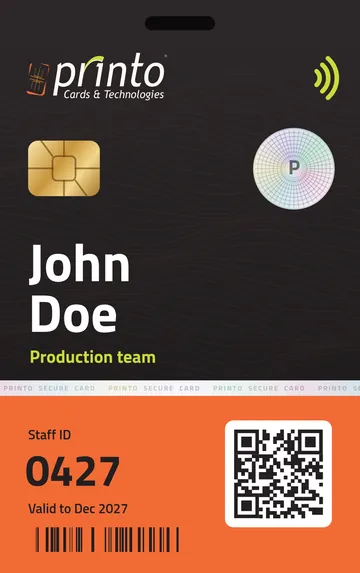
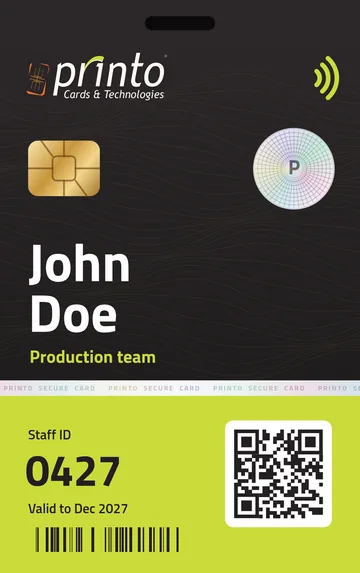
v2: client change list, round 2
From the client's feedback:
- Hero: the original colour logo, printed onto a white CR80 card left of
  the badge. It deals in, a print head lays the logo down with wet CMY ink
  behind it, then a holographic sheen passes every few seconds. It tilts
  with the pointer once the 3D scene runs, pauses off screen, and sits
  still with reduced motion
- Badge: the orange footer (front and back) is now brand lime, so the card
  stands out on the orange hero; badge stills and og.jpg re-rendered
- Nav logo is larger (46-52px, 34px in the pill, 38px on phones)

Also:
- Wooden floater removed, so the hero isn't crowded with four cards
- Phones: badge at the right, the brand card behind its left edge
- 761-1023px: the intro row stacks there, so the badge no longer overlaps
  the headline

Lighthouse: mobile 99/100/100/100, desktop 100/100/100/100. axe: 0.

Changed region(s): [[0.0, 0.6824, 1.0, 1.0]]

diff --git a/v2/src/styles/global.css b/v2/src/styles/global.css
@@ -88,9 +88,9 @@ address { font-style: normal; }
   box-shadow: 0 6px 24px -12px rgba(35,31,32,.3);
   border-radius: 999px;
 }
-.nav-main { display: flex; align-items: center; gap: 48px; padding: 13px 32px 13px 30px; }
+.nav-main { display: flex; align-items: center; gap: 48px; padding: 11px 32px 11px 28px; }
 .nav-logo { display: block; flex: none; }
-.nav-logo img { height: 34px; width: auto; }
+.nav-logo img { height: clamp(44px, 3.2vw, 52px); width: auto; }
 .nav-links { display: flex; gap: 30px; }
 .nav-links a, .menu a { text-decoration: none; }
 .nav-links a { position: relative; }
@@ -107,7 +107,7 @@ address { font-style: normal; }
   animation: pill-in .45s var(--ease) both;
 }
 .nav.is-pill .nav-main { padding: 0; background: none; box-shadow: none; backdrop-filter: none; -webkit-backdrop-filter: none; }
-.nav.is-pill .nav-logo img { height: 26px; }
+.nav.is-pill .nav-logo img { height: 34px; }
 .nav.is-pill .nav-links { display: none; }
 .nav.is-pill .nav-menu { display: inline-flex; }
 .nav.is-pill .burger { display: none; }
@@ -175,6 +175,38 @@ address { font-style: normal; }
 .hs-card { position: absolute; height: var(--ch); width: auto; aspect-ratio: 640 / 1019; left: calc(var(--cx) - var(--ch) * 0.314); top: calc(var(--cy) - var(--ch) / 2); border-radius: calc(var(--ch) * .037); box-shadow: 0 40px 60px -28px rgba(35,31,32,.55); }
 .hs-straps { position: absolute; top: 0; width: calc(var(--ch) * .512); left: calc(var(--cx) - var(--ch) * .256); height: calc(var(--cy) - var(--ch) * .54); }
 .hs-clip { position: absolute; width: calc(var(--ch) * .07); height: calc(var(--ch) * .08); left: calc(var(--cx) - var(--ch) * .035); top: calc(var(--cy) - var(--ch) * .575); background: #77777a; border-radius: 3px; }
+
+/* brand card: the logo printed onto a white CR80 card, level with the badge, in the space left of it.
+   It deals in, a print head lays the logo down, then a holographic sheen passes every few seconds.
+   --px and --py follow the pointer once the 3D scene runs, so the card tilts with the badge's light. */
+/* below ~1000px the intro and buttons stack, so the text block is ~70px taller (1023 leaves room for a scrollbar) */
+@media (max-width: 1023px) { .hero { --block: calc(.9 * var(--fs) + 52px + 203px + clamp(78px, 11vh, 116px)); } }
+.hero { --bw: min(calc(var(--ch) * .95), calc(var(--cx) - var(--ch) * .314 - var(--pad) - 6vw)); }
+.hero-brand { position: absolute; z-index: 1; left: var(--pad); top: var(--cy); width: var(--bw); aspect-ratio: 86 / 54; translate: 0 -50%; perspective: 1400px; pointer-events: none; }
+.hb-float, .hb-card { width: 100%; height: 100%; }
+.hb-card {
+  position: relative; overflow: hidden; border-radius: 3.7% / 5.9%;
+  background: linear-gradient(135deg, #fff 0%, #fafaf7 55%, #ecece7 100%);
+  box-shadow: -3px 3px 0 #d8d7d1, 0 40px 60px -28px rgba(35,31,32,.55);
+  transform: rotateY(calc(14deg + var(--px, 0) * 10deg)) rotateX(calc(6deg - var(--py, 0) * 8deg)) rotate(-4deg);
+}
+.hb-print { position: absolute; inset: 0; display: grid; place-items: center; }
+.hb-print img { width: 76%; height: auto; }
+.hb-head { position: absolute; inset: 0; opacity: 0; }
+/* the print head: a dark line with wet cyan, magenta and yellow ink trailing behind it */
+.hb-head::before { content: ''; position: absolute; top: 0; bottom: 0; right: 100%; width: 18%; background: linear-gradient(90deg, rgba(255,242,18,0), rgba(255,242,18,.4) 35%, rgba(236,0,140,.28) 70%, rgba(0,174,239,.42) 97%, var(--black) 97%); }
+.hb-sheen { position: absolute; inset: 0; translate: -110% 0; mix-blend-mode: multiply; background: linear-gradient(105deg, transparent 30%, rgba(255,154,213,.4) 42%, rgba(158,231,255,.45) 50%, rgba(255,245,154,.5) 58%, transparent 70%); }
+.is-motion .hb-card { animation: hb-deal 1.1s .2s var(--ease) both; }
+.is-motion .hb-print { animation: hb-print 1.2s 1s cubic-bezier(.45, 0, .55, 1) both; }
+.is-motion .hb-head { animation: hb-head 1.2s 1s cubic-bezier(.45, 0, .55, 1) both; }
+.is-motion .hb-sheen { animation: hb-sheen 7s 2.3s ease-in-out infinite; }
+.is-motion .hb-float { animation: hb-float 5s 2.3s ease-in-out infinite alternate; }
+.hero.is-away .hb-float, .hero.is-away .hb-sheen { animation-play-state: paused; }
+@keyframes hb-deal { from { translate: -45% 22%; rotate: -14deg; opacity: 0; } 40% { opacity: 1; } }
+@keyframes hb-print { from { clip-path: inset(0 100% 0 0); } to { clip-path: inset(0); } }
+@keyframes hb-head { 0% { translate: 0 0; opacity: 0; } 6%, 92% { opacity: 1; } 100% { translate: 100% 0; opacity: 0; } }
+@keyframes hb-sheen { 0% { translate: -110% 0; } 24%, 100% { translate: 110% 0; } }
+@keyframes hb-float { to { translate: 0 -10px; rotate: .8deg; } }
 
 /* ---------- story ---------- */
 .story { position: relative; }
@@ -446,7 +478,7 @@ address { font-style: normal; }
   body { font-size: 16.5px; }
   .nav { top: 12px; gap: 16px; padding: 7px 7px 7px 22px; border-radius: 999px; background: rgba(255,255,255,.94); box-shadow: 0 6px 24px -12px rgba(35,31,32,.3); }
   .nav-main { padding: 0; background: none; box-shadow: none; backdrop-filter: none; -webkit-backdrop-filter: none; }
-  .nav-logo img { height: 30px; }
+  .nav-logo img { height: 38px; }
   .nav .burger { width: 40px; height: 40px; }
   .hero { display: flex; flex-direction: column; justify-content: flex-end; padding-top: max(48svh, calc(25svh + 33.5vw + 24px)); padding-bottom: 28px; }
   .hero-copy, .hero-row { display: contents; }
@@ -460,7 +492,10 @@ address { font-style: normal; }
   .hero-foot { order: 5; position: relative; bottom: auto; margin-top: 26px; }
   .facts { gap: 6px 16px; font-size: 12.5px; }
   .scrollcue { display: none; }
-  .hero { --ch: calc(42vw * 86 / 54); --cx: 50%; --cy: 25svh; }
+  /* badge to the right, the brand card tucked behind its left edge */
+  .hero { --ch: calc(36vw * 86 / 54); --cx: 72%; --cy: 25svh; --bw: 52vw; }
+  .hero-brand { top: calc(var(--cy) + var(--ch) * .1); left: 14px; }
+  .hb-print img { width: 82%; }
   .is-motion .chapters { left: var(--gutter); right: var(--gutter); width: auto; align-items: start; padding-top: 84px; }
   .chapter h2 { font-size: clamp(36px, 10vw, 48px); margin: 8px 0 12px; }
   .chapter .lead { font-size: 15.5px; }

diff --git a/v2/src/scripts/textures.ts b/v2/src/scripts/textures.ts
@@ -109,7 +109,7 @@ export function badgeFront(assets: Assets, name = 'John Doe') {
   const bg = ctx.createLinearGradient(0, 0, 0, BH);
   bg.addColorStop(0, '#2c2829'); bg.addColorStop(1, '#191617');
   ctx.fillStyle = bg; ctx.fillRect(0, 0, BW, BH);
-  guilloche(ctx, 250, 48, 'rgba(242,107,53,0.11)', 'rgba(255,255,255,0.045)');
+  guilloche(ctx, 250, 48, 'rgba(203,219,58,0.09)', 'rgba(255,255,255,0.045)');
 
   // punched slot
   ctx.fillStyle = '#0c0a0b'; ctx.beginPath(); ctx.roundRect(BW / 2 - 100, 46, 200, 40, 20); ctx.fill();
@@ -179,8 +179,8 @@ export function badgeFront(assets: Assets, name = 'John Doe') {
   fx.fillRect(0, fy, BW, fh);
   sx.fillStyle = 'rgb(0,40,235)'; sx.fillRect(0, fy, BW, fh);
 
-  // orange footer: staff number, validity, QR
-  ctx.fillStyle = ORANGE; ctx.fillRect(0, 1126, BW, BH - 1126);
+  // lime footer: staff number, validity, QR. Lime, not orange, so the card stands out on the orange hero
+  ctx.fillStyle = LIME; ctx.fillRect(0, 1126, BW, BH - 1126);
   ctx.fillStyle = INK;
   font(ctx, '600 38px'); ctx.fillText('Staff ID', 80, 1250);
   font(ctx, '700 124px', -1); ctx.fillText('0427', 72, 1382);
@@ -203,7 +203,7 @@ export function badgeBack() {
   const bg = ctx.createLinearGradient(0, 0, 0, BH);
   bg.addColorStop(0, '#2c2829'); bg.addColorStop(1, '#191617');
   ctx.fillStyle = bg; ctx.fillRect(0, 0, BW, BH);
-  guilloche(ctx, 520, 40, 'rgba(242,107,53,0.09)', 'rgba(255,255,255,0.04)');
+  guilloche(ctx, 520, 40, 'rgba(203,219,58,0.07)', 'rgba(255,255,255,0.04)');
   ctx.fillStyle = '#0c0a0b'; ctx.beginPath(); ctx.roundRect(BW / 2 - 100, 46, 200, 40, 20); ctx.fill();
   ctx.fillStyle = '#0a0909'; ctx.fillRect(0, 150, BW, 150);                   // magnetic stripe
   sx.fillStyle = 'rgb(0,30,0)'; sx.fillRect(0, 150, BW, 150);
@@ -213,7 +213,7 @@ export function badgeBack() {
   ['Printo Cards & Technologies', 'C-19, Darussalam Complex', 'Mavoor Road, Calicut 673004', '0495 406 0457'].forEach((l, i) => ctx.fillText(l, 80, 600 + i * 62));
   ctx.fillStyle = '#f2f1ee'; ctx.beginPath(); ctx.roundRect(80, 940, BW - 160, 140, 14); ctx.fill();
   ctx.fillStyle = '#8b8580'; font(ctx, '400 30px'); ctx.fillText('Signature', 100, 1062);
-  ctx.fillStyle = ORANGE; ctx.fillRect(0, 1180, BW, BH - 1180);
+  ctx.fillStyle = LIME; ctx.fillRect(0, 1180, BW, BH - 1180);
   ctx.fillStyle = '#fff'; ctx.beginPath(); ctx.roundRect(80, 1300, BW - 160, 200, 18); ctx.fill();
   barcode(ctx, 120, 1330, BW - 240, 140, 3);
   return { color: c, surface: s };
@@ -306,28 +306,6 @@ export function nfcCard() {
   ctx.fillStyle = '#fff'; font(ctx, '700 76px'); ctx.fillText('Tap to enter', 90, 900);
   ctx.globalAlpha = 0.6; font(ctx, '700 40px', 4); ctx.textAlign = 'right'; ctx.fillText('NTAG 215', ART_W - 90, 900);
   ctx.globalAlpha = 1;
-  return c;
-}
-
-export function woodCard() {
-  const [c, ctx] = make(ART_W, ART_H);
-  ctx.fillStyle = '#c4935f'; ctx.fillRect(0, 0, ART_W, ART_H);
-  let r = 3;
-  const rand = () => ((r = (r * 9301 + 49297) % 233280) / 233280);
-  for (let i = 0; i < 140; i++) {
-    const y0 = rand() * ART_H * 1.2 - 100;
-    ctx.strokeStyle = rand() > 0.5 ? 'rgba(120,70,30,0.22)' : 'rgba(230,190,140,0.25)';
-    ctx.lineWidth = 2 + rand() * 7;
-    ctx.beginPath();
-    for (let x = -20; x <= ART_W + 20; x += 30) {
-      const y = y0 + Math.sin(x / 260 + i) * 22 + Math.sin(x / 90 + i * 2) * 5;
-      x === -20 ? ctx.moveTo(x, y) : ctx.lineTo(x, y);
-    }
-    ctx.stroke();
-  }
-  ctx.fillStyle = 'rgba(80,45,15,0.58)'; ctx.textAlign = 'center';
-  font(ctx, '700 150px', -1); ctx.fillText('Room 204', ART_W / 2, 560);
-  font(ctx, '600 46px', 8); ctx.fillText('GUEST KEY', ART_W / 2, 660);
   return c;
 }
 

diff --git a/v2/src/scripts/hero-scene.ts b/v2/src/scripts/hero-scene.ts
@@ -1,6 +1,6 @@
 import * as THREE from 'three';
 import { cardGeometry, makeRenderer, studioEnvironment, loopWhileVisible, clamp01, CARD_W, CARD_H } from './card';
-import { loadAssets, texture, badgeFront, badgeBack, nfcCard, woodCard, strap } from './textures';
+import { loadAssets, texture, badgeFront, badgeBack, nfcCard, strap } from './textures';
 
 const FOV = 30;
 const TAN = Math.tan(THREE.MathUtils.degToRad(FOV / 2));
@@ -93,7 +93,6 @@ export async function initHero(hero: HTMLElement) {
   };
   const floaters: Floater[] = [
     { mesh: mk(nfcCard(), 0.35), z: -5, desk: [0.86, 0.3], mob: [0.88, 0.1], rot: new THREE.Euler(0.25, -0.6, -0.28), phase: 0.3, speed: 0.8, base: new THREE.Vector3() },
-    { mesh: mk(woodCard(), 0.7), z: -15, desk: [0.47, 0.36], mob: [0.13, 0.15], rot: new THREE.Euler(0.4, 0.62, 0.42), phase: 1.9, speed: 0.6, base: new THREE.Vector3() },
   ];
   floaters.forEach((f) => { f.mesh.scale.setScalar(0.62); scene.add(f.mesh); });
 
@@ -332,7 +331,10 @@ export async function initHero(hero: HTMLElement) {
     if (!mobile) camOffset.lerp(pointer, 0.05);
     // the light follows the pointer so the foil and gold chip catch it; it drifts on its own on touch screens
     key.position.set(-8 + camOffset.x * 16, 12 - camOffset.y * 10, 14);
-    if (!mobile) { hero.style.setProperty('--gx', `${68 + camOffset.x * 16}%`); hero.style.setProperty('--gy', `${32 + camOffset.y * 18}%`); }
+    if (!mobile) {
+      hero.style.setProperty('--gx', `${68 + camOffset.x * 16}%`); hero.style.setProperty('--gy', `${32 + camOffset.y * 18}%`);
+      hero.style.setProperty('--px', camOffset.x.toFixed(3)); hero.style.setProperty('--py', camOffset.y.toFixed(3));
+    }
     scene.environmentRotation.y = camOffset.x * 1.1 + Math.sin(t * 0.3) * 0.35;
     camera.position.set(camOffset.x * 0.9, -camOffset.y * 0.6 - p * vh * 0.32, camZ);
     renderer.render(scene, camera);

diff --git a/v2/src/scripts/main.ts b/v2/src/scripts/main.ts
@@ -26,6 +26,8 @@ const hero = $('[data-hero]')!;
 const syncNav = () => nav.classList.toggle('is-pill', window.scrollY > hero.offsetHeight * 0.7);
 addEventListener('scroll', syncNav, { passive: true });
 syncNav();
+// the brand card's float and sheen loop only while the hero is on screen
+new IntersectionObserver(([e]) => hero.classList.toggle('is-away', !e.isIntersecting)).observe(hero);
 
 const menu = $<HTMLDialogElement>('[data-menu]')!;
 $$('[data-menu-open]').forEach((b) => b.addEventListener('click', () => { menu.showModal(); lenis?.stop(); }));
